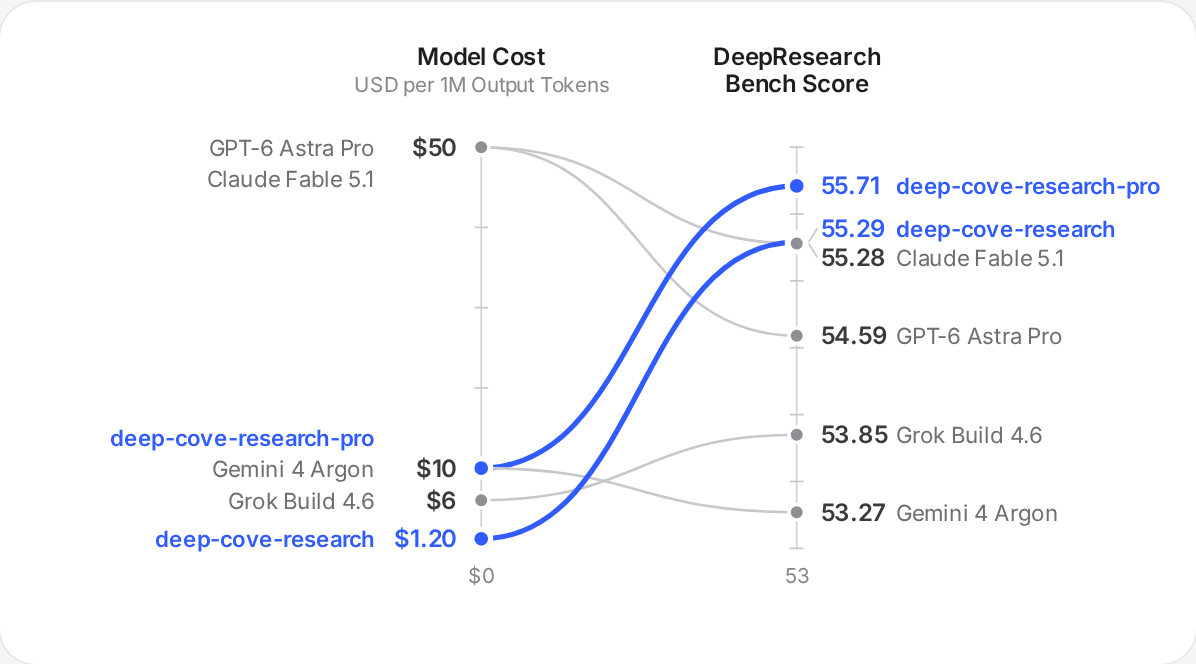
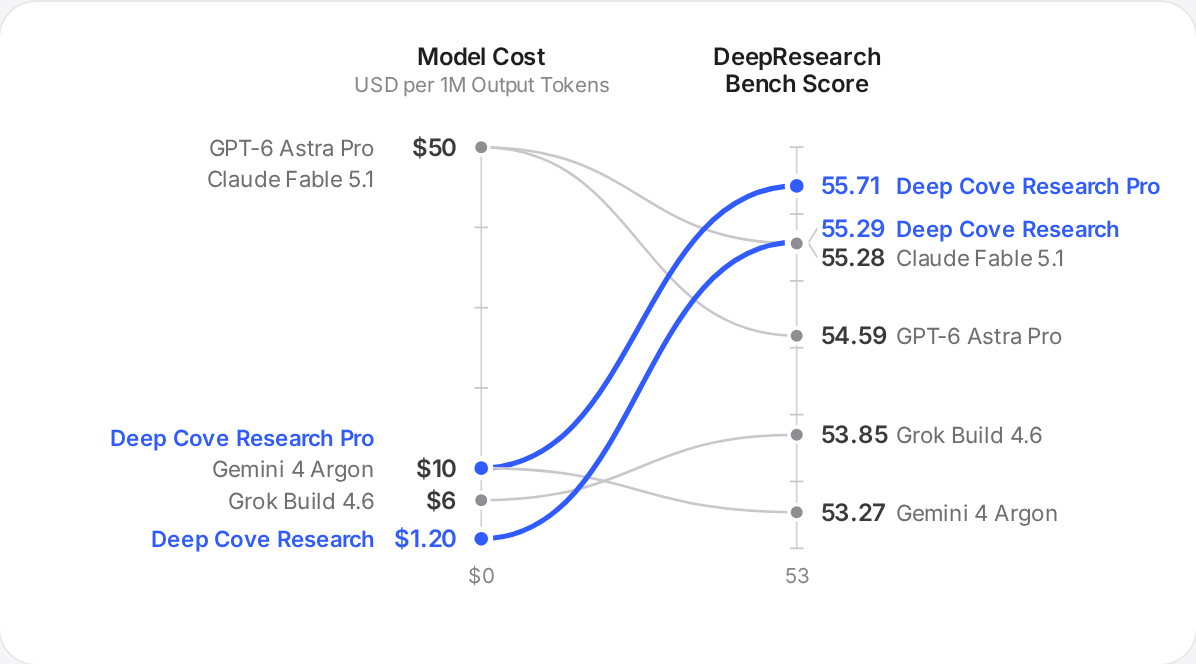
Names: Deep Cove Research Pro and Deep Cove Research; charts re-rendered

diff --git a/.github/scripts/update_leaderboard.py b/.github/scripts/update_leaderboard.py
@@ -43,7 +43,8 @@ PRO = 'deep-cove-research-pro'
 # missing), data-lbs fields hold deep-cove-research's row. This repo's badge keeps its own row (MODEL); its README block
 # lists both entries.
 SITE_MODELS = (PRO, MODEL)
-COST = {PRO: '$2.50', MODEL: '$1.04'}  # average cost per report of each entry's 100 official reports, public API prices
+COST = {PRO: '$2.50', MODEL: '$1.04'}
+NAME = {PRO: 'Deep Cove Research Pro', MODEL: 'Deep Cove Research'}  # names shown to readers  # average cost per report of each entry's 100 official reports, public API prices
 UA = 'deep-cove-research-leaderboard-sync (+https://github.com/aldrinor/deep-cove-research)'
 
 MON_EN = ('Jan', 'Feb', 'Mar', 'Apr', 'May', 'Jun', 'Jul', 'Aug', 'Sep', 'Oct', 'Nov', 'Dec')
@@ -190,8 +191,8 @@ def readme_block(d, d2=None):
                 f'<sup>[1](#sources)</sup> · as of {v["date"]}\n\n{END}')
     v2 = values(d2)
     return (f'{START}\n\n| Entry | Rank | Score | Cost per Report |\n|:--|:-:|:-:|:-:|\n'
-            f'| [{PRO}](https://github.com/aldrinor/{PRO}) | **#{v2["rank"]} of {v2["total"]}** | **{v2["score"]}** | {COST[PRO]} |\n'
-            f'| {MODEL} (this repository) | **#{v["rank"]} of {v["total"]}** | **{v["score"]}** | {COST[MODEL]} |\n\n'
+            f'| [{NAME[PRO]}](https://github.com/aldrinor/{PRO}) | **#{v2["rank"]} of {v2["total"]}** | **{v2["score"]}** | {COST[PRO]} |\n'
+            f'| {NAME[MODEL]} (this repository) | **#{v["rank"]} of {v["total"]}** | **{v["score"]}** | {COST[MODEL]} |\n\n'
             f'On the [official leaderboard]({BOARD_URL})<sup>[1](#sources)</sup> · as of {v["date"]}\n\n{END}')
 
 
@@ -217,9 +218,9 @@ def patch_readme(text, d, d2=None):
     if d2 is not None:
         v2 = values(d2)
         # tagline "deep-cove-research-pro #4 and deep-cove-research #6 on DeepResearch Bench"; note 1 with both rows
-        text = re.sub(r'(' + re.escape(PRO) + r' #)\d+', lambda m: m.group(1) + v2['rank'], text)
+        text = re.sub(r'(' + re.escape(NAME[PRO]) + r' #)\d+', lambda m: m.group(1) + v2['rank'], text)
         text = re.sub(r'(\*\*DeepResearch Bench official leaderboard\.\*\* GPT-5\.5 judge, )\d{1,2} [A-Z][a-z]{2} \d{4}'
-                      r'(\. ' + re.escape(PRO) + r' )\d+\.\d+(, rank )\d+( of )\d+(; ' + re.escape(MODEL) + r' )\d+\.\d+(, rank )\d+( of )\d+(\.)',
+                      r'(\. ' + re.escape(NAME[PRO]) + r' )\d+\.\d+(, rank )\d+( of )\d+(; ' + re.escape(NAME[MODEL]) + r' )\d+\.\d+(, rank )\d+( of )\d+(\.)',
                       lambda m: (m.group(1) + v['date'] + m.group(2) + v2['score'] + m.group(3) + v2['rank'] + m.group(4) + v2['total']
                                  + m.group(5) + v['score'] + m.group(6) + v['rank'] + m.group(7) + v['total'] + m.group(8)), text)
     return text

diff --git a/README.md b/README.md
@@ -6,7 +6,7 @@
 
 <p align="center">
   <b>A comprehension engine built on Read-Time Compute.</b><br>
-  deep-cove-research-pro #4 and deep-cove-research #6 on DeepResearch Bench<sup><a href="#sources">1</a></sup> · Up to 93% lower cost than frontier deep research agents<sup><a href="#sources">2</a></sup>
+  Deep Cove Research Pro #4 and Deep Cove Research #6 on DeepResearch Bench<sup><a href="#sources">1</a></sup> · Up to 93% lower cost than frontier deep research agents<sup><a href="#sources">2</a></sup>
 </p>
 
 <p align="center">
@@ -29,8 +29,8 @@ Deep Cove Research comprehends full sources, then turns them into research repor
 
 | Entry | Rank | Score | Cost per Report |
 |:--|:-:|:-:|:-:|
-| [deep-cove-research-pro](https://github.com/aldrinor/deep-cove-research-pro) | **#4 of 18** | **55.71** | $2.50 |
-| deep-cove-research (this repository) | **#6 of 18** | **55.29** | $1.04 |
+| [Deep Cove Research Pro](https://github.com/aldrinor/deep-cove-research-pro) | **#4 of 18** | **55.71** | $2.50 |
+| Deep Cove Research (this repository) | **#6 of 18** | **55.29** | $1.04 |
 
 On the [official leaderboard](https://huggingface.co/spaces/muset-ai/DeepResearch-Bench-Leaderboard)<sup>[1](#sources)</sup> · as of 22 Oct 2026
 
@@ -43,7 +43,7 @@ A benchmark for deep research agents. It has 100 PhD-level research tasks, writt
 <p align="center">
   <picture>
     <source media="(prefers-color-scheme: dark)" srcset="assets/chart-score-cost-dark.png">
-    <img src="assets/chart-score-cost-light.png" width="100%" alt="DeepResearch Bench score against cost per report. Official leaderboard: CellCog (US) 56.72, $25 or more per session; Alibaba (CN) 55.99 and SPIA-DeepResearch-V2 55.85, cost not published; deep-cove-research-pro (CA) 55.71 at $2.50; Beane Harness 55.37, estimated about $5; deep-cove-research (CA) 55.29 at $1.04. Evaluation based on the official RACE method: Anthropic Claude Research (Fable 5.1 Max) 55.28, estimated about $8; Meituan LongCat 55.25, published by Meituan, cost not published; OpenAI GPT-6 Astra Pro Deep Research 54.59 at $15.36; xAI Grok Build 4.6 53.85, estimated about $1.50; Google Gemini 4 Deep Research 53.27, estimated about $5.">
+    <img src="assets/chart-score-cost-light.png" width="100%" alt="DeepResearch Bench score against cost per report. Official leaderboard: CellCog (US) 56.72, $25 or more per session; Alibaba (CN) 55.99 and SPIA-DeepResearch-V2 55.85, cost not published; Deep Cove Research Pro (CA) 55.71 at $2.50; Beane Harness 55.37, estimated about $5; Deep Cove Research (CA) 55.29 at $1.04. Evaluation based on the official RACE method: Anthropic Claude Research (Fable 5.1 Max) 55.28, estimated about $8; Meituan LongCat 55.25, published by Meituan, cost not published; OpenAI GPT-6 Astra Pro Deep Research 54.59 at $15.36; xAI Grok Build 4.6 53.85, estimated about $1.50; Google Gemini 4 Deep Research 53.27, estimated about $5.">
   </picture>
 </p>
 
@@ -55,7 +55,7 @@ A benchmark for deep research agents. It has 100 PhD-level research tasks, writt
 |:--|:--|
 | **85%** of input tokens are rereading session history | **2%** of input tokens are rereading session history |
 | Frontier research agents work in a loop: search, open a page, take notes, repeat. Before each new step, they read all their old notes again. So most of their effort goes into rereading, not into new sources.<sup>[2](#sources)</sup> | Our state-of-the-art orchestrator handles the loop itself, so the model does not reread old notes. We spend the savings on research: 5X more searches,<sup>[2](#sources)</sup> and an engine built to read thousands of sources.<sup>[7](#sources)</sup> |
-| <sub>GPT-6 Astra Pro · Max Reasoning</sub> | <sub>deep-cove-research · Max Reasoning</sub> |
+| <sub>GPT-6 Astra Pro · Max Reasoning</sub> | <sub>Deep Cove Research · Max Reasoning</sub> |
 
 ## Looping has a price.
 
@@ -64,7 +64,7 @@ On average, frontier research agents cost $15.36 per task. Rereading their old n
 <p align="center">
   <picture>
     <source media="(prefers-color-scheme: dark)" srcset="assets/chart-cost-per-task-dark.png">
-    <img src="assets/chart-cost-per-task-light.png" width="100%" alt="Cost per task. GPT-6 Astra Pro Deep Research: $15.36, split into rereading history, planning, searching and writing, and reading new material. deep-cove-research: $0.99, 93% lower cost, spent mostly on reading new material.">
+    <img src="assets/chart-cost-per-task-light.png" width="100%" alt="Cost per task. GPT-6 Astra Pro Deep Research: $15.36, split into rereading history, planning, searching and writing, and reading new material. Deep Cove Research: $0.99, 93% lower cost, spent mostly on reading new material.">
   </picture>
 </p>
 
@@ -74,7 +74,7 @@ On average, frontier research agents cost $15.36 per task. Rereading their old n
 |:--|:--|
 | **14** average searches per report | **68** average searches per report |
 | Frontier research agents have limited memory, and the loop uses most of it. So they only have room for about 14 searches per report. For many sources, they read only the short snippet, not the complete content, so details are easy to miss or misread.<sup>[2](#sources)</sup> | Our state-of-the-art context management keeps the model's memory clear. So it has room for about 68 searches per report, 5X more than frontier agents. We comprehend the whole page and turn it into evidence cards for deep comprehension.<sup>[2](#sources)</sup> |
-| <sub>GPT-6 Astra Pro · Max Reasoning</sub> | <sub>deep-cove-research · Max Reasoning</sub> |
+| <sub>GPT-6 Astra Pro · Max Reasoning</sub> | <sub>Deep Cove Research · Max Reasoning</sub> |
 
 ## Inside the comprehension engine.
 
@@ -85,7 +85,7 @@ The comprehension engine works from real-time, post-training sources it comprehe
 <p align="center">
   <picture>
     <source media="(prefers-color-scheme: dark)" srcset="assets/chart-model-cost-dark.png">
-    <img src="assets/chart-model-cost-light.png" width="80%" alt="Model cost against DeepResearch Bench score. List price per 1M output tokens: deep-cove-research $1.20, score 55.29; deep-cove-research-pro $1.20 for 88% of its model calls and $10 for the rest, shown at $10, score 55.71; Gemini 4 Argon $10, 53.27; Grok Build 4.6 $6, 53.85; GPT-6 Astra Pro $50, 54.59; Claude Fable 5.1 $50, 55.28.">
+    <img src="assets/chart-model-cost-light.png" width="80%" alt="Model cost against DeepResearch Bench score. List price per 1M output tokens: Deep Cove Research $1.20, score 55.29; Deep Cove Research Pro $1.20 for 88% of its model calls and $10 for the rest, shown at $10, score 55.71; Gemini 4 Argon $10, 53.27; Grok Build 4.6 $6, 53.85; GPT-6 Astra Pro $50, 54.59; Claude Fable 5.1 $50, 55.28.">
   </picture>
 </p>
 
@@ -112,7 +112,7 @@ Our engine handles the research process, so a light model is enough, at about 31
 
 ## Reports
 
-The 100 reports behind the official score of deep-cove-research: 50 in Chinese and 50 in English. Every report has its own page: the benchmark prompt, then the full report. The 100 reports of our second entry, deep-cove-research-pro, are in [aldrinor/deep-cove-research-pro](https://github.com/aldrinor/deep-cove-research-pro).
+The 100 reports behind the official score of Deep Cove Research: 50 in Chinese and 50 in English. Every report has its own page: the benchmark prompt, then the full report. The 100 reports of our second entry, Deep Cove Research Pro, are in [aldrinor/deep-cove-research-pro](https://github.com/aldrinor/deep-cove-research-pro).
 
 **[Browse all 100 reports →](reports/README.md)**
 
@@ -233,14 +233,14 @@ Proprietary. The reports in this repository are © 2026 Deep Cove Research, all 
 
 ## Sources
 
-1. **DeepResearch Bench official leaderboard.** GPT-5.5 judge, 22 Oct 2026. deep-cove-research-pro 55.71, rank 4 of 18; deep-cove-research 55.29, rank 6 of 18.
-2. **Deep Cove token study.** DeepResearch Bench II tasks 7, 28 and 50, Oct 2026. Per task: GPT-6 Astra Pro $15.36 billed, 2.05M input tokens (85% repeated history), 14 searches; deep-cove-research $0.99 at public API prices, 0.86M input tokens (2% repeated), 68 searches and 61 pages downloaded. Stage costs at billed and public API prices.
+1. **DeepResearch Bench official leaderboard.** GPT-5.5 judge, 22 Oct 2026. Deep Cove Research Pro 55.71, rank 4 of 18; Deep Cove Research 55.29, rank 6 of 18.
+2. **Deep Cove token study.** DeepResearch Bench II tasks 7, 28 and 50, Oct 2026. Per task: GPT-6 Astra Pro $15.36 billed, 2.05M input tokens (85% repeated history), 14 searches; Deep Cove Research $0.99 at public API prices, 0.86M input tokens (2% repeated), 68 searches and 61 pages downloaded. Stage costs at billed and public API prices.
 3. **Deep Cove evaluation.** Official RACE method and GPT-5.5 judge. GPT-6 Astra Pro and Grok Build 4.6: DeepResearch Bench tasks 10, 20, 30, 70 and 90, 3 judgments each, Sep 2026. Claude Research (99 reports) and Gemini 4 Deep Research (92 reports): every report we ran, 1 judgment each, Oct 2026. Meituan LongCat: published by Meituan (arXiv 2609.36071). Scores use the same scale as the official leaderboard.
 4. **DeepResearch Bench paper.** ICLR 2026, arXiv 2506.11763: 100 PhD-level tasks in 22 fields, Chinese and English.
 5. **Published DeepResearch Bench results.** Papers, model cards and leaderboard entries, Oct 2026.
-6. **Cost per report.** deep-cove-research-pro $2.50 and deep-cove-research $1.04: averages of their 100 official reports at public API prices. GPT-6 Astra Pro: billed usage on DeepResearch Bench II tasks 7, 28 and 50. CellCog: published price, about $25 per Max working session. Estimated costs (dashed ring, midpoint shown): Gemini 4 Deep Research, Google’s published estimate for Deep Research Max, $3 to $7; Claude Research, our billed API run of Claude Fable 5.1 at max effort, $8.05; Grok, our billed API runs of the same model family, $1 to $2; Beane Harness, its published call counts at public prices, $2 to $8.
+6. **Cost per report.** Deep Cove Research Pro $2.50 and Deep Cove Research $1.04: averages of their 100 official reports at public API prices. GPT-6 Astra Pro: billed usage on DeepResearch Bench II tasks 7, 28 and 50. CellCog: published price, about $25 per Max working session. Estimated costs (dashed ring, midpoint shown): Gemini 4 Deep Research, Google’s published estimate for Deep Research Max, $3 to $7; Claude Research, our billed API run of Claude Fable 5.1 at max effort, $8.05; Grok, our billed API runs of the same model family, $1 to $2; Beane Harness, its published call counts at public prices, $2 to $8.
 7. **Engine design.** Each source is comprehended in its own model call, in parallel, so capacity grows with the number of calls. Current setting: up to 384 pages per report.
-8. **Public list prices.** Per 1M output tokens: GPT-5.6 Luna $1.20 (deep-cove-research, and 88% of deep-cove-research-pro’s model calls); GPT-6.1 Sol $10 (the rest of deep-cove-research-pro’s calls); GPT-6 Astra Pro $50; Claude Fable 5.1 $50; Grok Build 4.6 $6 (8 Oct 2026); Gemini 4 Argon $10 until 30 Nov 2026, then $20 (22 Oct 2026). Scores: notes 1 and 3.
+8. **Public list prices.** Per 1M output tokens: GPT-5.6 Luna $1.20 (Deep Cove Research, and 88% of Deep Cove Research Pro’s model calls); GPT-6.1 Sol $10 (the rest of Deep Cove Research Pro’s calls); GPT-6 Astra Pro $50; Claude Fable 5.1 $50; Grok Build 4.6 $6 (8 Oct 2026); Gemini 4 Argon $10 until 30 Nov 2026, then $20 (22 Oct 2026). Scores: notes 1 and 3.
 9. **GPU estimates.** Kimi K3 model card: 2.8T parameters, MXFP4 weights, about 1.5 TB, which needs 2 servers of 8 NVIDIA B200 (192 GB each). gpt-oss-120b model card: 117B parameters, fits a single 80 GB GPU. On-demand prices, RunPod, 8 Oct 2026: B200 $6.79 per hour, H100 SXM $3.49 per hour.
 
 ## Acknowledgements
